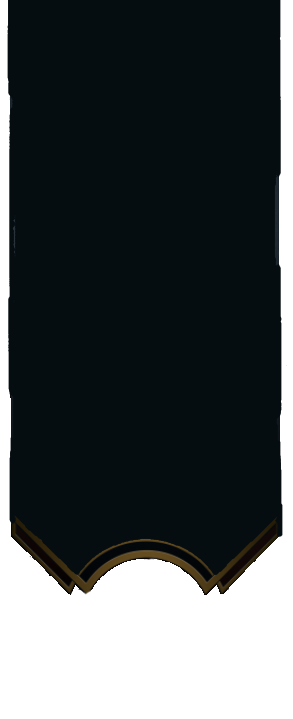
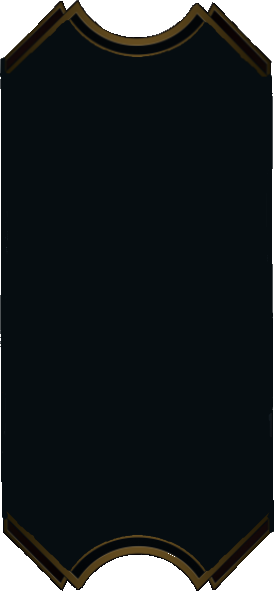
Fixed summoner match loading bug, updated ui

Changed region(s): [[0.0, 0.0, 1.0, 1.0]]

diff --git a/src/components/modules/SummonerStats/SummonerStats.tsx b/src/components/modules/SummonerStats/SummonerStats.tsx
@@ -10,6 +10,7 @@ import {
   MostCommonChampions,
   SpecificMatchData,
 } from '../../../pages/ChampSelectPage'
+import * as Styled from './SummonerStats.style'
 import { StyledGridContainer } from '../../../styles/constantStyles'
 
 interface SummonerStatsProps {
@@ -36,30 +37,30 @@ export const SummonerStats: React.FC<SummonerStatsProps> = React.memo(({
     >
       {Object.keys(summonerData).map(
         (summonerObjKey: string, i: number) => {
-          // console.log(summonerObjKey)
-          // console.log(specificMatchData[summonerData[summonerObjKey].accountId])
           return (
             <StyledGridContainer
               item
               xs
               key={i}
             >
-              <SummonerProfileCard
-                summoner={summonerData[summonerObjKey]}
-              />
-              <RoleChampionCard
-                mostCommonChampions={
-                  mostCommonChampions[
-                  summonerData[summonerObjKey].accountId
-                  ]
-                }
-                mostCommonLanes={
-                  mostCommonLanes[
-                  summonerData[summonerObjKey].accountId
-                  ]
-                }
-                specificMatchArr={specificMatchData[summonerData[summonerObjKey].accountId]}
-              />
+              <Styled.SummonerStatsContainer image={`/images/banner.png`}>
+                <SummonerProfileCard
+                  summoner={summonerData[summonerObjKey]}
+                />
+                <RoleChampionCard
+                  mostCommonChampions={
+                    mostCommonChampions[
+                    summonerData[summonerObjKey].accountId
+                    ]
+                  }
+                  mostCommonLanes={
+                    mostCommonLanes[
+                    summonerData[summonerObjKey].accountId
+                    ]
+                  }
+                  specificMatchArr={specificMatchData[summonerData[summonerObjKey].accountId]}
+                />
+              </Styled.SummonerStatsContainer>
             </StyledGridContainer>
           )
         },

diff --git a/src/components/elements/RoleChampionCard/RoleChampionCard.styled.ts b/src/components/elements/RoleChampionCard/RoleChampionCard.styled.ts
@@ -3,14 +3,10 @@ import styled from 'styled-components'
 export const RoleChampionWrapper = styled.div`
     display: flex;
     flex-direction: column;
-    background-color: #333341;
     width: 270px;
-    align-items: center;
-    justify-content: center;
-    border-bottom-left-radius: 116px;
-    border-bottom-right-radius: 116px;
     margin: 0px 10px 35px 10px;
     min-height: 200px;
+    margin-top: 15px;
 `
 
 export const MainChampRoleContainer = styled.div`
@@ -38,12 +34,9 @@ export const KDAContainer = styled.div<KDAContainerProps>`
 
 export const LoadingContainer = styled.div`
     display: flex;
+    position: relative;
+    top: 25px;
     justify-content: center;
-    background-color: #333341;
     width: 270px;
-    height: 100%;
-    padding-top: 35px;
-`
-
-export const TrimContainer = styled.div`
+    height: 200px;
 `

diff --git a/src/pages/api/getSpecificMatchOverview.ts b/src/pages/api/getSpecificMatchOverview.ts
@@ -29,10 +29,12 @@ export const handleSpecificMatchOverviews = async (
             if (!specificMatch) continue;
 
             const participantObj = specificMatch.participantIdentities.find((p: any) => p.player.accountId === summonerId)
+            if (!participantObj) continue;
+
             //  subtract 1, api starts counting from 1-10 players in game
             const participantNum = participantObj.participantId - 1
             const summonerMatchStats = specificMatch.participants[participantNum]
-            if (!summonerMatchStats) return;
+            if (!summonerMatchStats) continue;
 
             tempMatchData.push({
                 "champion": await convertChampId(summonerMatchStats.championId),

diff --git a/src/components/modules/SummonerStats/SummonerStats.style.ts b/src/components/modules/SummonerStats/SummonerStats.style.ts
@@ -1,0 +1,20 @@
+import styled from 'styled-components'
+
+interface SummonerStatsContainerProps {
+    image: string;
+}
+
+export const SummonerStatsContainer = styled.div<SummonerStatsContainerProps>`
+    display: flex;
+    flex-direction: column;
+    justify-content: center;
+    align-items: center;
+    width: 270px;
+    height: 760px;
+    background-image: url(${props => props.image});
+    background-repeat: no-repeat;
+    background-size: 300px 760px;
+    background-position: center;
+    margin: 10px 10px 10px 10px;
+    z-index: 5;
+`

diff --git a/src/components/elements/SummonerProfileCard/SummonerProfileCard.styled.ts b/src/components/elements/SummonerProfileCard/SummonerProfileCard.styled.ts
@@ -9,12 +9,11 @@ export const Winrate = styled.div`
     border-radius: 15px;
     font-size: 20px;
     padding: 5px;
-
+    margin-top: 90px;
 `
 export const ProfileContainer = styled.div`
     display: flex;
     flex-direction: column;
-    background-color: #333341;
     width: 90%;
     width: 270px;
     align-items: center;
@@ -62,8 +61,7 @@ export const RankContainer = styled.div`
 `
 
 export const ProfileIcon = styled.img`
-position: relative;
-
+    position: relative;
     margin-top: 20px;
     border-radius: 20px;
 `

diff --git a/src/components/elements/SummonerProfileCard/SummonerProfileCard.tsx b/src/components/elements/SummonerProfileCard/SummonerProfileCard.tsx
@@ -38,7 +38,7 @@ export const SummonerProfileCard: React.FC<SummonerProfileCardProps> = ({
             <div>W: {summoner.wins}</div>
             <div>L: {summoner.losses}</div>
           </Styled.WinLossContainer>
-          <Styled.ProgressBar variant="determinate" value={winrate} />
+          <Styled.ProgressBar variant="determinate" value={winrate ? winrate : 50} />
           <Styled.LPDivContainer>
             <Styled.LPDiv>{summoner.leaguePoints} lp</Styled.LPDiv>
           </Styled.LPDivContainer>

diff --git a/src/components/elements/RoleChampionCard/RoleChampionCard.tsx b/src/components/elements/RoleChampionCard/RoleChampionCard.tsx
@@ -110,9 +110,6 @@ export const RoleChampionCard: React.FC<RoleChampionCardProps> = ({
             )
           })}
         </Grid>
-        <Styled.TrimContainer>
-          <Image src={`/images/platinumtrim.png`} alt={`${mostCommonLanesArr[0][0]}-icon`} width={'270px'} height={'100%'} />
-        </Styled.TrimContainer>
       </Styled.RoleChampionWrapper>
     )
   } else {

diff --git a/src/pages/ChampSelectPage.tsx b/src/pages/ChampSelectPage.tsx
@@ -315,7 +315,7 @@ const StyledTextField = styled.textarea`
   width: 600px;
   height: 90px;
   box-sizing: border-box;
-  border: 5px solid ${(props) =>
+  border: 2px solid ${(props) =>
     props.theme.inputBorder};
   background-color: ${(props) =>
     props.theme.inputBackground};

diff --git a/src/components/elements/ThemeToggle/ThemeToggle.styled.ts b/src/components/elements/ThemeToggle/ThemeToggle.styled.ts
@@ -5,7 +5,6 @@ export const SwitchContainer = styled.div`
     top: 1%;
     right: 1%;
     margin: 10px 0px 0px 0px;
-
 `
 
 
